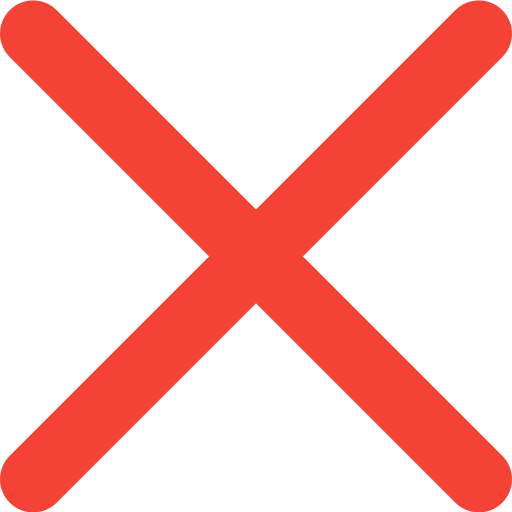
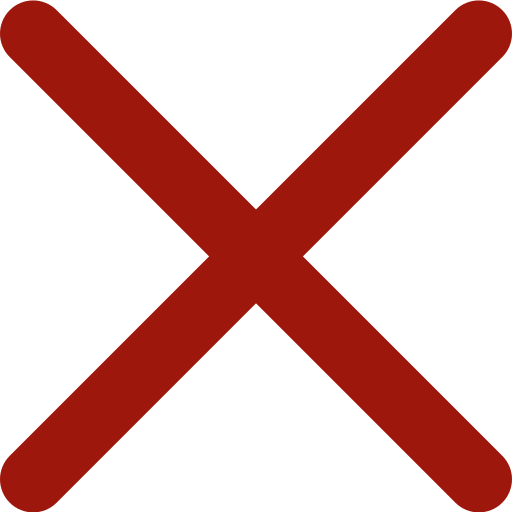
Remove temporary images and rename final version

diff --git a/src/GalleryContainer.js b/src/GalleryContainer.js
@@ -6,7 +6,7 @@ import { S3BucketParams } from './App';
 import Gallery from './Gallery';
 import * as Utils from './utils.js';
 
-import imgRedX from './redx_9e170d.png';
+import imgRedX from './redx.png';
 
 //┣━━━━━━━━━━━━━━━━━━━━━━━━━━━━━━━┓
 //┃  Gallery Container Component  ┃
